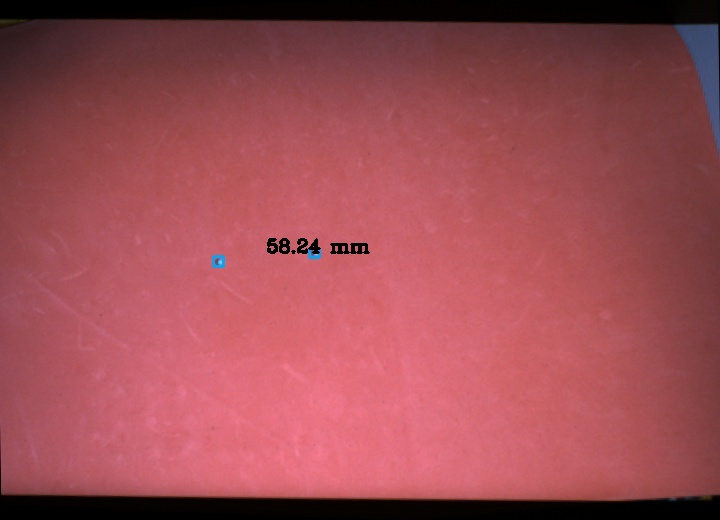
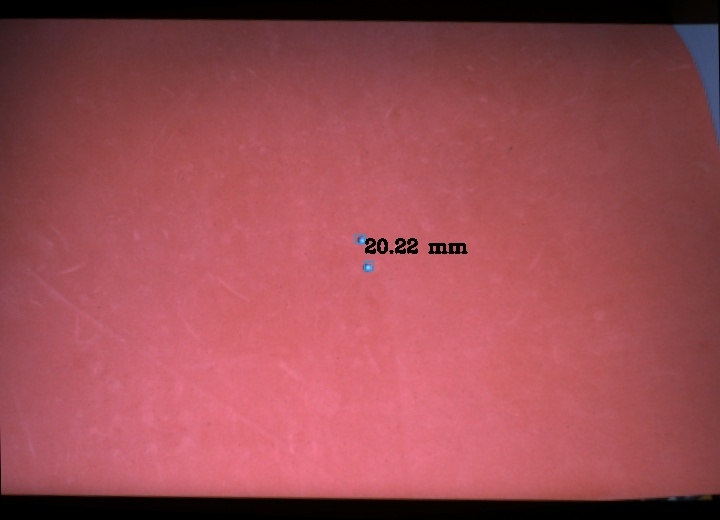
Use center of bbox for better accuracy

diff --git a/Measure.cpp b/Measure.cpp
@@ -354,13 +354,16 @@ int main(int argc, char** argv)
 
 	detection_utils::visualizeDetection(cv_m_imageInput, vsd_result, vsz_classNamesList);
 
-	//Find max Z in the region of each bbox
+	//Find max Z in the region of each bbox -> not very accurate
+	//Rather try center of bbox
 	xyz3Dand2D as_xyz3DPinCenters[10];		//Accomodate max 10 pins for now
 	memset(as_xyz3DPinCenters, 0, sizeof(as_xyz3DPinCenters));		//TODO: check if this is right?
 	int iCountPins = 0;
 
 	for (const Detection& detection : vsd_result)
-	{	//define ROI
+	{	
+		/*
+		//define ROI
 		int iZMaxIndex = 0;
 		int iXatZMax = 0;
 		int iYatZMax = 0;
@@ -393,6 +396,19 @@ int main(int argc, char** argv)
 		as_xyz3DPinCenters[iCountPins].z3D = as_xyz3DAll[iZMaxIndex].z;
 		as_xyz3DPinCenters[iCountPins].xPixel = iXatZMax;
 		as_xyz3DPinCenters[iCountPins].yPixel = iYatZMax;
+		iCountPins++;
+		*/
+
+		int xCenterPixel = detection.box.x + (detection.box.width/2);
+		int yCenterPixel = detection.box.y + (detection.box.height / 2);
+		//Get coordinates for each pin center from .xyz row
+		//Row = (x+1)+(720*y) (check if array indexed at 0 or 1 like file)
+		int iIndex = (xCenterPixel)+(yCenterPixel * 720);
+		as_xyz3DPinCenters[iCountPins].x3D = as_xyz3DAll[iIndex].x;
+		as_xyz3DPinCenters[iCountPins].y3D = as_xyz3DAll[iIndex].y;
+		as_xyz3DPinCenters[iCountPins].z3D = as_xyz3DAll[iIndex].z;
+		as_xyz3DPinCenters[iCountPins].xPixel = xCenterPixel;
+		as_xyz3DPinCenters[iCountPins].yPixel = yCenterPixel;
 		iCountPins++;
 	}
 
